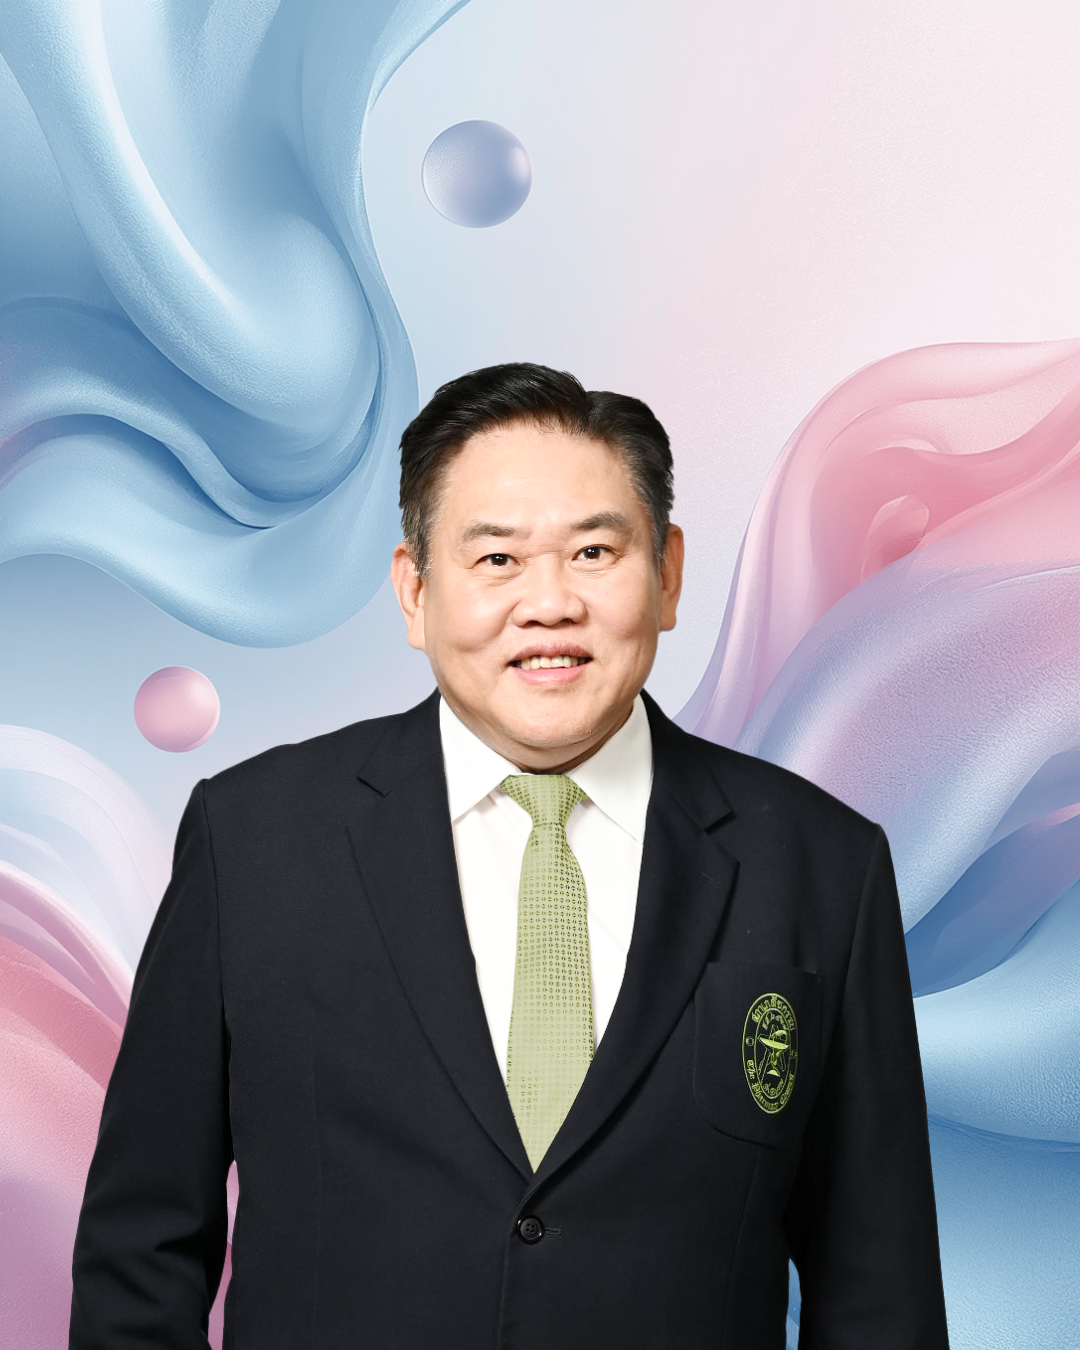
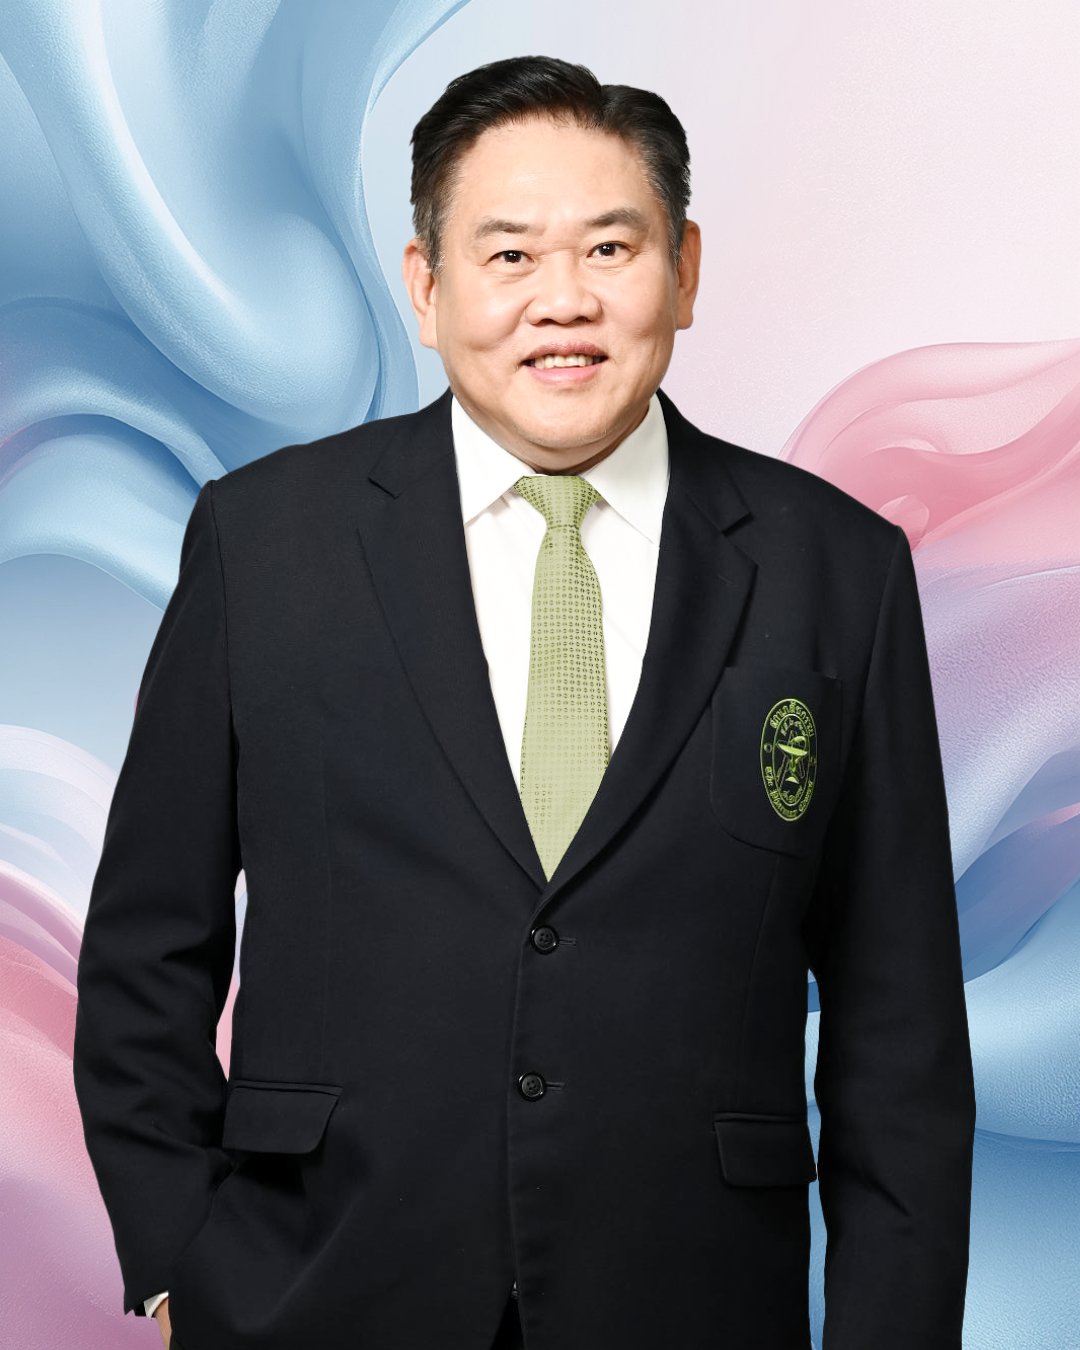
Update layout and texts for speaker and welcome sections

diff --git a/app/components/sections/AgendaSection.tsx b/app/components/sections/AgendaSection.tsx
@@ -111,7 +111,7 @@ export default function AgendaSection() {
 
         <div ref={containerRef} className="relative before:absolute before:inset-0 before:left-[1rem] md:before:left-[30%] before:-translate-x-px md:before:-translate-x-px before:h-full before:w-[2px] before:bg-gradient-to-b before:from-violet-600 before:via-fuchsia-500 before:to-transparent before:opacity-20 dark:before:opacity-30">
           
-          <div className="flex flex-col gap-16 md:gap-24">
+          <div className="flex flex-col gap-10 md:gap-12">
             {events.map((event, i) => {
               
               return (
@@ -201,20 +201,20 @@ export default function AgendaSection() {
                       {/* Meta + Speaker Image (single speaker style) */}
                       {!event.speakers && (
                         <div className="relative">
-                          {event.metaKey && (
-                            <div className="relative pl-5 pr-36 before:absolute before:left-0 before:top-1 before:bottom-1 before:w-[3px] before:rounded-full before:bg-gradient-to-b before:from-violet-500 before:to-fuchsia-500 before:opacity-40">
-                              <span className="block text-[0.95rem] font-semibold text-slate-700 dark:text-slate-300 whitespace-pre-line leading-loose tracking-wide">
-                                {t(event.metaKey)}
-                              </span>
+                          <div className={event.metaKey ? "relative pl-5 before:absolute before:left-0 before:top-1 before:bottom-1 before:w-[3px] before:rounded-full before:bg-gradient-to-b before:from-violet-500 before:to-fuchsia-500 before:opacity-40" : ""}>
+                            <div className="flex items-center gap-4">
+                              {event.speakerImage && (
+                                <div className="relative shrink-0 rounded-2xl overflow-hidden shadow-lg border-2 border-white/50 dark:border-white/10 w-16 h-16 md:w-20 md:h-20 ring-1 ring-slate-900/5 dark:ring-white/10 group-hover:scale-105 transition-transform duration-500">
+                                  <Image src={event.speakerImage} alt="Speaker" fill unoptimized className="object-cover object-top" />
+                                </div>
+                              )}
+                              {event.metaKey && (
+                                <span className="block text-[0.95rem] font-semibold text-slate-700 dark:text-slate-300 whitespace-pre-line leading-loose tracking-wide">
+                                  {t(event.metaKey)}
+                                </span>
+                              )}
                             </div>
-                          )}
-                          {event.speakerImage && (
-                            <div className="flex absolute right-0 top-1/2 -translate-y-1/2 items-center">
-                              <div className="relative rounded-2xl overflow-hidden shadow-xl border-2 border-white/50 dark:border-white/10 w-24 h-24 md:w-28 md:h-28 ring-1 ring-slate-900/5 dark:ring-white/10 group-hover:scale-105 transition-transform duration-500">
-                                <Image src={event.speakerImage} alt="Speaker" fill unoptimized className="object-cover object-top" />
-                              </div>
-                            </div>
-                          )}
+                          </div>
                         </div>
                       )}
 

diff --git a/app/contexts/LangContext.tsx b/app/contexts/LangContext.tsx
@@ -69,11 +69,11 @@ const translations: Record<string, Record<Lang, string>> = {
   "welcome.presidentPosition": { TH: "นายกสภาเภสัชกรรม", EN: "President of the Pharmacy Council" },
 
   "welcome.p2Name": { TH: "รศ.ภญ.สุณี เลิศสินอุดม", EN: "Associate Professor Sunee Lertsinudom" },
-  "welcome.p2Position": { TH: "เลขาธิการสภาเภสัชกรรม", EN: "Secretary-General of the Pharmacy Council" },
+  "welcome.p2Position": { TH: "เลขาธิการ\nสภาเภสัชกรรม", EN: "Secretary-General\nof the Pharmacy Council" },
   "welcome.p2Message": { TH: "สภาเภสัชกรรมขอแสดงความยินดีกับเภสัชกรใหม่ทุกท่านที่สอบผ่าน และกำลังก้าวเข้าสู่การประกอบวิชาชีพเภสัชกรรมอย่างเต็มภาคภูมิ เส้นทางวิชาชีพนี้เป็นการเรียนรู้และพัฒนาตนเองอย่างต่อเนื่อง เพื่อสร้างความเข้มแข็งให้กับทั้งตัวท่านและวิชาชีพเภสัชกรรม ขอเชิญชวนเภสัชกรใหม่ทุกท่านมาร่วมแบ่งปันประสบการณ์และแรงบันดาลใจ ในงานปฐมนิเทศเภสัชกรใหม่ ปี 2569 นี้", EN: "The Pharmacy Council congratulates all new pharmacists who have passed their exams and are proudly stepping into the pharmacy profession. This career path is about continuous learning and self-development, building strength for both yourself and the pharmacy profession. We invite all new pharmacists to come share experiences and inspiration at this New Pharmacist Orientation 2026." },
 
   "welcome.p3Name": { TH: "ดร.ภก.นพดล อัจจิมาธีระ", EN: "Pharm. Dr. Noppadon Adjimatera" },
-  "welcome.p3Position": { TH: "อุปนายกสภาเภสัชกรรม คนที่2", EN: "Second Vice President" },
+  "welcome.p3Position": { TH: "อุปนายก\nสภาเภสัชกรรม คนที่2", EN: "Second\nVice President" },
   "welcome.p3Message": { TH: "ขอแสดงความยินดีกับเภสัชกรใหม่ทุกท่านที่ก้าวผ่านอีกหนึ่งก้าวสำคัญของชีวิต และกำลังก้าวเข้าสู่เส้นทางวิชาชีพเภสัชกรรม ซึ่งเป็นวิชาชีพที่มีบทบาทสำคัญต่อสุขภาพของประชาชนและระบบสาธารณสุขของประเทศ ขอให้ทุกท่านใช้ความรู้ ความสามารถ และจิตวิญญาณของความเป็นเภสัชกรในการพัฒนาตนเองและวิชาชีพ พร้อมทั้งร่วมพบปะแลกเปลี่ยนประสบการณ์กันในงานปฐมนิเทศเภสัชกรใหม่ ปี 2569 นี้", EN: "Congratulations to all new pharmacists who have crossed another major milestone and are entering the pharmacy profession, which plays a critical role in public health and the national healthcare system. I encourage all of you to use your knowledge, abilities, and the spirit of a pharmacist to develop yourselves and the profession, and to exchange experiences at this New Pharmacist Orientation 2026." },
 
   // Welcome Cards
@@ -119,7 +119,7 @@ const translations: Record<string, Record<Lang, string>> = {
   "speaker.s4.desc": { TH: "รอการยืนยันจากวิทยากร", EN: "Speaker to be confirmed." },
 
   "speaker.s5.name": { TH: "ภก.อาทิตย์ สอดแสงอรุณงาม", EN: "Pharm. Athit Sotsaengarunngam" },
-  "speaker.s5.position": { TH: "ผู้อำนวยการกองปฏิบัติการทะเบียน องค์การเภสัชกรรม", EN: "Director of Registration Operations Division, GPO" },
+  "speaker.s5.position": { TH: "ผู้อำนวยการกองปฏิบัติการทะเบียน\nองค์การเภสัชกรรม", EN: "Director of Registration Operations Division, GPO" },
   "speaker.s5.topic": { TH: "เภสัชกรอุตสาหการ", EN: "Industrial Pharmacist" },
   "speaker.s5.desc": { TH: "ประสบการณ์การทำงานในองค์การเภสัชกรรมและงานขึ้นทะเบียน", EN: "Experience working in the Government Pharmaceutical Organization and drug registration." },
 
@@ -129,7 +129,7 @@ const translations: Record<string, Record<Lang, string>> = {
   "speaker.s6.desc": { TH: "ประสบการณ์การทำงานในสำนักงานสาธารณสุขจังหวัด", EN: "Experience working in the Provincial Health Office." },
 
   "speaker.s7.name": { TH: "ภญ.ภิญญาพัชร์ สุขมั่นคงเสมอ", EN: "Pharm. Pinyapat Sukmankongsamun" },
-  "speaker.s7.position": { TH: "Associated Product Manager Abbott Laboratories", EN: "Associated Product Manager, Abbott Laboratories" },
+  "speaker.s7.position": { TH: "Associated Product Manager\nAbbott Laboratories", EN: "Associated Product Manager\nAbbott Laboratories" },
   "speaker.s7.topic": { TH: "เภสัชกรการตลาด", EN: "Pharmaceutical Marketing" },
   "speaker.s7.desc": { TH: "ประสบการณ์ด้านการตลาดและ Product Manager ในบริษัทยาชั้นนำ", EN: "Experience as an Associated Product Manager in a multinational pharmaceutical company." },
 
@@ -204,7 +204,7 @@ const translations: Record<string, Record<Lang, string>> = {
   "agenda.d1e3.meta": { TH: "ภญ.โฉมคนางค์ ภูมิสายดร (ประชาสัมพันธ์และโฆษกสภาฯ)", EN: "Pharm. Chomkhanang Phumsaidorn (PR & Spokesperson)" },
 
   "agenda.d1e4.title": { TH: "พิธีเปิดและกล่าวให้โอวาท", EN: "Opening Ceremony & Address" },
-  "agenda.d1e4.desc": { TH: "พิธีเปิดและกล่าวให้โอวาทเภสัชกรใหม่ก้าวเข้าสู่การประกอบวิชาชีพเภสัชกรรม", EN: "Opening ceremony and address for new pharmacists entering the profession." },
+  "agenda.d1e4.desc": { TH: "เนื่องในโอกาสเภสัชกรใหม่ก้าวเข้าสู่การประกอบวิชาชีพเภสัชกรรม", EN: "On the occasion of new pharmacists entering the pharmacy profession." },
   "agenda.d1e4.meta": { TH: "ภก.ปรีชา พันธุ์ติเวช (นายกสภาเภสัชกรรม)", EN: "Pharm. Preecha Bhandtivej (President)" },
 
   "agenda.d1e5.title": { TH: "พิธีมอบใบอนุญาต", EN: "Professional License Ceremony" },

diff --git a/app/components/sections/WelcomeSection.tsx b/app/components/sections/WelcomeSection.tsx
@@ -112,7 +112,7 @@ const BackgroundBlobs = () => (
 const NavButtons = ({ next, prev, index, total }: any) => (
   <div className="hidden lg:flex items-center gap-6 mt-8 lg:mt-0 lg:absolute lg:bottom-12 lg:right-12 z-30 justify-center lg:justify-end">
     <div className="flex items-center gap-2 text-sm font-black tracking-widest font-mono">
-      <span className="text-violet-600 dark:text-violet-400 text-base">{String(index + 1).padStart(2, '0')}</span>
+      <span className="text-violet-600 dark:text-violet-400 text-base">{String((index % total) + 1).padStart(2, '0')}</span>
       <span className="text-slate-300 dark:text-slate-600">/</span>
       <span className="text-slate-400 dark:text-slate-500">{String(total).padStart(2, '0')}</span>
     </div>
@@ -172,7 +172,7 @@ const GlassCardContent = ({ person }: { person: Person }) => {
         </motion.div>
         
         <motion.h2 variants={textItemVariants} style={{ fontFamily: "var(--font-noto-thai), 'Noto Sans Thai', sans-serif" }} className="text-3xl sm:text-4xl lg:text-5xl font-black text-slate-900 dark:text-white mb-8 leading-[1.2] tracking-tight lg:text-left">
-          <span className="bg-gradient-to-r from-pink-500 via-violet-500 to-blue-500 bg-clip-text text-transparent drop-shadow-sm text-[clamp(1.8rem,4vw,3.5rem)] lg:leading-[1.15] block pb-2 pr-2 overflow-visible">
+          <span className="bg-gradient-to-r from-pink-500 via-violet-500 to-blue-500 bg-clip-text text-transparent drop-shadow-sm text-[clamp(1.8rem,4vw,3.5rem)] lg:leading-[1.15] block pb-2 pr-2 overflow-visible whitespace-pre-line">
             {t(person.posKey)}
           </span>
           <span className="text-2xl sm:text-3xl lg:text-4xl text-slate-800 dark:text-slate-200 mt-3 block font-bold leading-snug">
@@ -401,7 +401,7 @@ export default function WelcomeSection() {
               prevEl: '.welcome-nav-prev',
             }}
             loop={true}
-            onSlideChange={(swiper) => setIndex(swiper.realIndex)}
+            onSlideChange={(swiper) => setIndex(swiper.realIndex % people.length)}
             autoplay={{
               delay: 5000,
               disableOnInteraction: false,

diff --git a/app/components/sections/SpeakerSection.tsx b/app/components/sections/SpeakerSection.tsx
@@ -155,7 +155,7 @@ const SpeakerCard = memo(function SpeakerCard({
         <h3 className="text-[15px] sm:text-[18px] tracking-tight font-bold text-white mb-1.5 shadow-black drop-shadow-lg leading-snug whitespace-nowrap" style={{ textRendering: "optimizeLegibility" }}>
           {t(speaker.nameKey)}
         </h3>
-        <p className="text-[12px] sm:text-sm font-medium text-white bg-black/60 md:bg-black/20 md:backdrop-blur-md px-3 py-1 rounded-full shadow-sm opacity-100 transition-opacity duration-300">
+        <p className="whitespace-pre-line text-[12px] sm:text-sm font-medium text-white bg-black/60 md:bg-black/20 md:backdrop-blur-md px-3 py-1 rounded-full shadow-sm opacity-100 transition-opacity duration-300">
           {t(speaker.positionKey)}
         </p>
       </div>